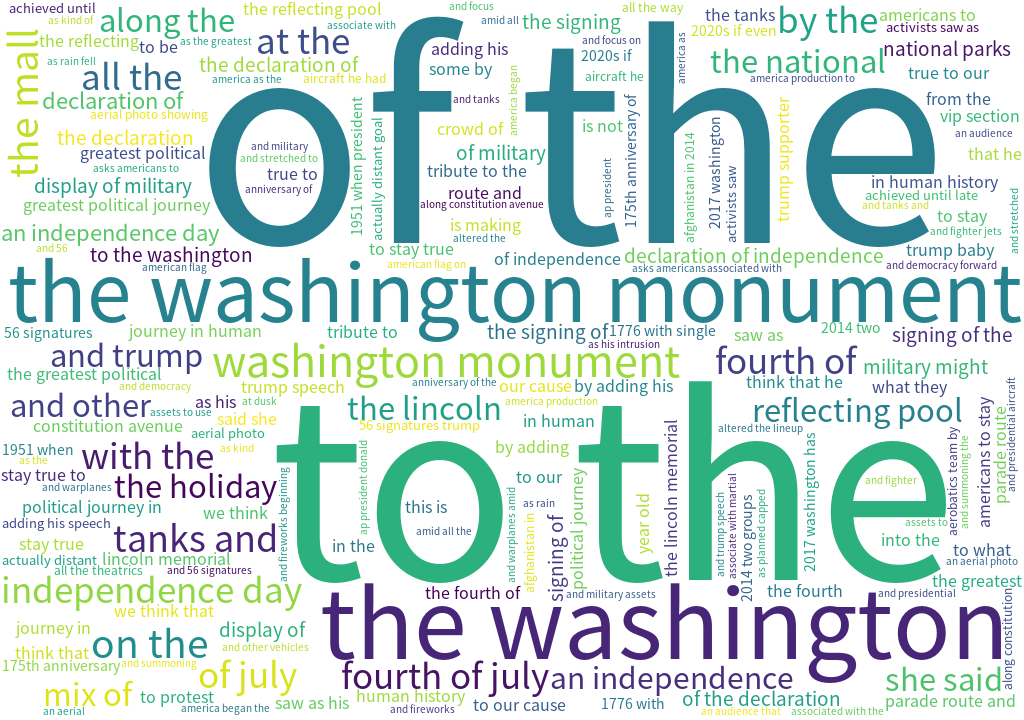
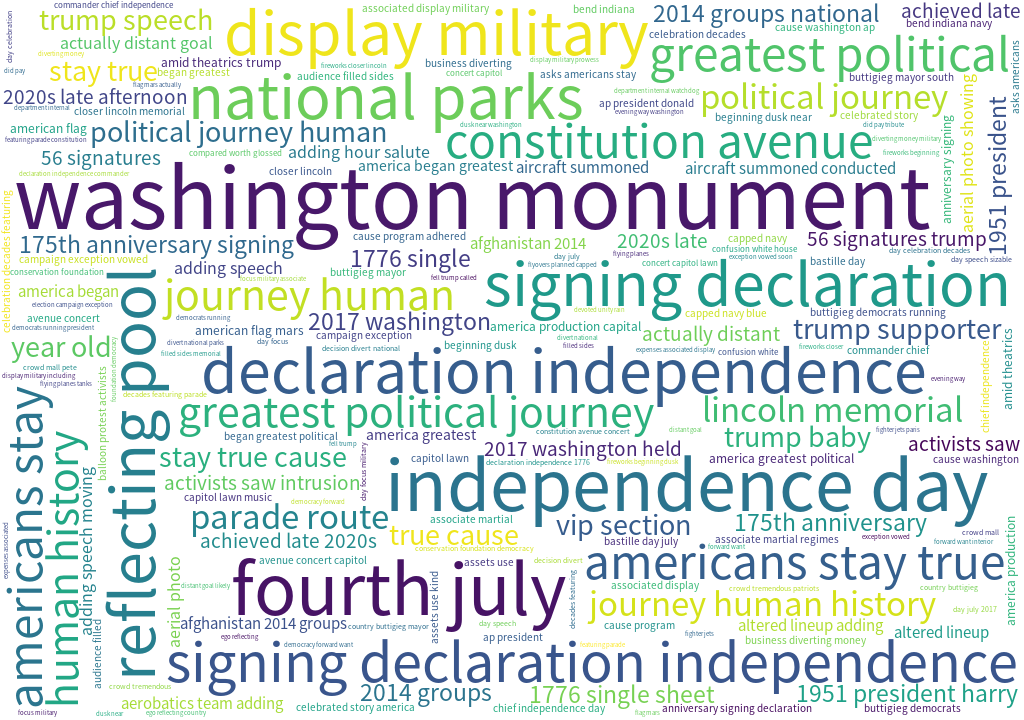
Add stop words

diff --git a/week1/english_news_analyse.py b/week1/english_news_analyse.py
@@ -18,14 +18,15 @@ def produce_wordcloud(features, vector, file_name):
                   file_name)
 
 
-features, matrix = feature_and_matrix(articles)
+features, matrix = feature_and_matrix(articles, stop_words='english')
 for i, vector in enumerate(matrix):
     produce_wordcloud(features, vector, f'image/English_News_{i}.png')
 print(f'1-gram TF-IDF cosine similarity: {cosine_similarity(matrix)[0, 1]}')
 
 
-features, matrix = feature_and_matrix(articles, ngram_range=(2, 3))
+features, matrix = feature_and_matrix(articles, stop_words='english',
+                                      ngram_range=(2, 3))
 for i, vector in enumerate(matrix):
     produce_wordcloud(features, vector, f'image/English_News_{i}_2+3-gram.png')
 print(f'2-gram + 3-gram TF-IDF cosine similarity: \
-    {cosine_similarity(matrix)[0, 1]}')
+      {cosine_similarity(matrix)[0, 1]}')
